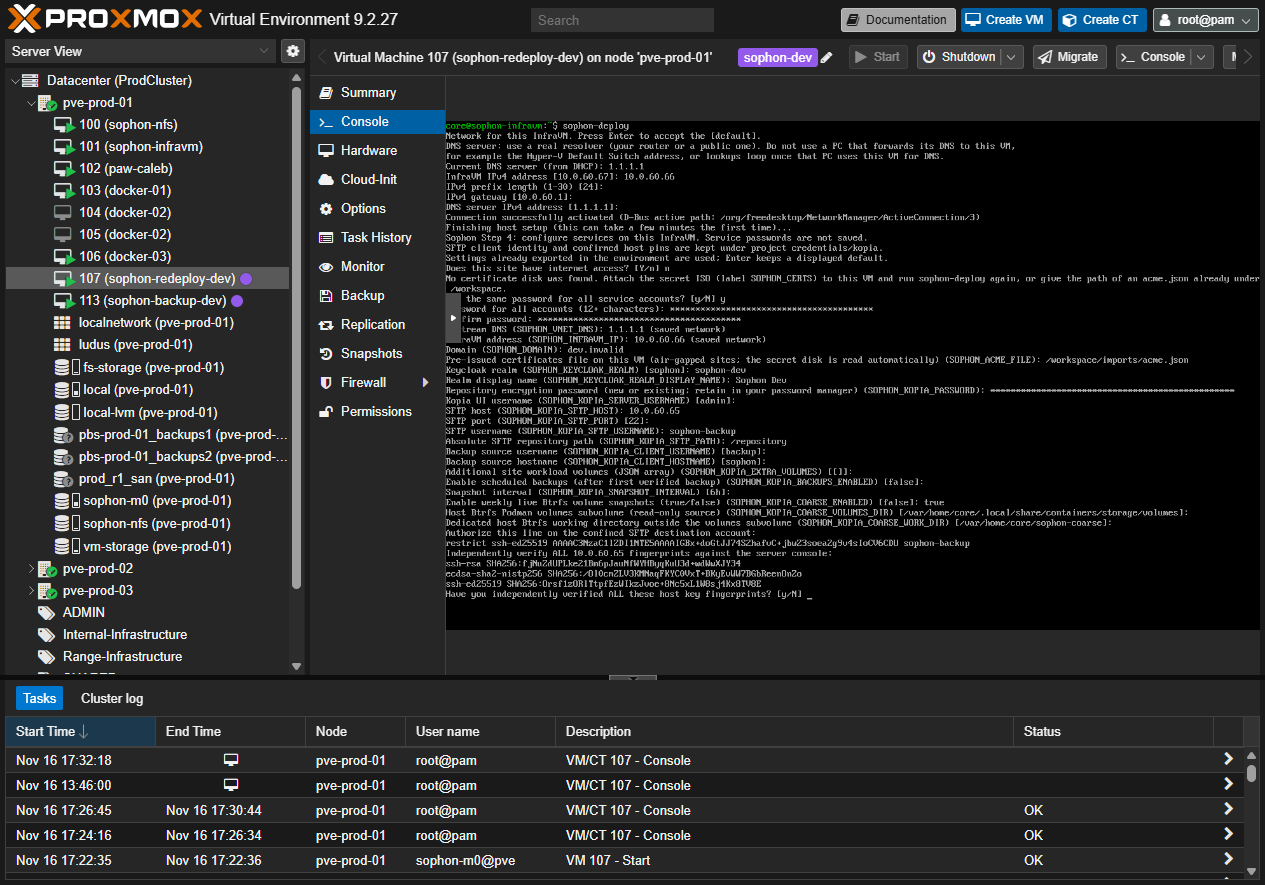
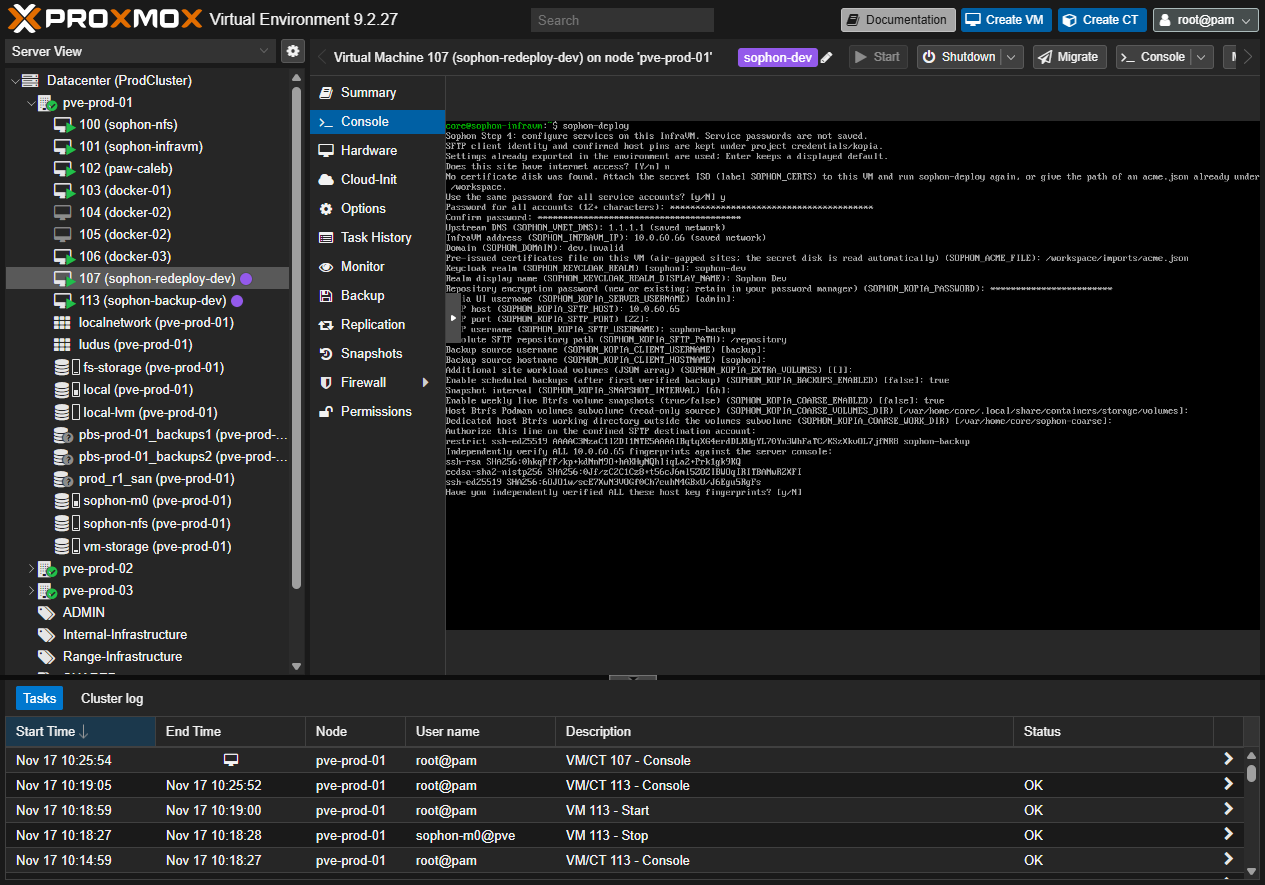
Update operator guide and screenshots for Alpine SFTP backup appliance
Replace manual Debian Cloud-Init backup VM setup in docs/operator-guide.md
with the turnkey sophon-backup-installer.iso workflow (keeping existing-NAS/
Linux instructions in a collapsible subsection) and update console screenshots
so key material and SHA256 host-key fingerprints match end-to-end.

diff --git a/docs/operator-guide.md b/docs/operator-guide.md
@@ -20,81 +20,59 @@ Sophon runs on a single **Fedora CoreOS** virtual machine (**InfraVM**) with a d
 
 ---
 
-## 2. Create & Configure a Confined SFTP Backup Server from Scratch
+## 2. Deploy the Sophon SFTP Backup Appliance (or Use an Existing SFTP Host)
 
-Sophon stores encrypted Kopia snapshots on an external SFTP server (preferably on a separate physical host, NAS, or storage pool from InfraVM so backups survive storage or host loss). You do **not** need to generate SSH client keys or `known_hosts` files by hand—InfraVM generates its own `ed25519` client identity and scans the server's host keys interactively.
+Sophon stores encrypted Kopia snapshots on an external confined SFTP server—ideally on a separate physical host, NAS, or storage pool from InfraVM so backups survive storage or hypervisor loss. You never need to generate SSH client keys or `known_hosts` files by hand: InfraVM generates its own `ed25519` client identity and scans the server's host keys interactively.
 
-If you already have an existing Linux host or NAS, skip straight to **Section 2.2**. If you do **not** yet have a backup server, follow **Section 2.1** to provision a clean Debian 13 Cloud-Init VM in Proxmox VE in under two minutes.
+`bash sophon-provision.sh prepare` (automatically invoked by `sophon-provision.sh`) builds a turnkey, offline, hybrid BIOS + UEFI **Alpine 3.24 SFTP Backup Server ISO** at:
 
-### 2.1 Provision a new Debian 13 SFTP backup VM (Proxmox VE)
+```text
+artifacts/backup/sophon-backup-installer.iso
+```
 
-#### Step A — Import the official Debian 13 Cloud-Init image
+*(If you already have an existing NAS or Linux server you prefer to use, expand **Section 2.3** below instead.)*
 
-1. In the Proxmox web UI, select a storage pool that has **Import** enabled (Datacenter -> Storage -> Edit -> Content: include `Import`, `Disk image`, `ISO image`), then open its **Import** tab.
-2. Click **Download from URL**, paste the official Debian 13 (`trixie`) generic cloud image URL, click **Query URL**, and download it:
-   - URL: `https://cloud.debian.org/images/cloud/trixie/latest/debian-13-genericcloud-amd64.qcow2`
-   - Verify the SHA-512 checksum against `https://cloud.debian.org/images/cloud/trixie/latest/SHA512SUMS` (`Hash algorithm: sha512`).
+### 2.1 Boot a blank VM with `sophon-backup-installer.iso`
 
-![Proxmox storage Import tab with Debian 13 genericcloud qcow2 image](./images/00a-backup-storage-import.png)
+The backup appliance uses the exact same console-first, blank-disk workflow as InfraVM—no Cloud-Init drive, no SSH from your laptop, and identical behavior on Proxmox, vCenter, and Hyper-V:
 
-#### Step B — Create the VM, resize disk & attach Cloud-Init
+1. Upload `artifacts/backup/sophon-backup-installer.iso` (`~133 MiB`) to your hypervisor.
+2. Create a blank 64-bit Linux VM (`1–2` vCPU, `1–2 GiB` RAM, **one** blank disk of `16+ GiB`—for example `32 GiB` for dev or `200+ GiB` for production with `discard=on`, and one NIC on your backup network/VLAN). Adding `Serial Port (serial0)` in Proxmox also enables browser copy/paste via `xterm.js`.
+3. Attach `sophon-backup-installer.iso` as a CD/DVD drive and set **boot order to the blank disk first, then the CD/DVD drive**.
 
-You can create the backup VM either in the Proxmox GUI or with `qm` on the Proxmox node:
+![Proxmox Hardware tab for the Sophon Backup Server VM with a blank disk and sophon-backup-installer.iso](./images/00a-backup-vm-hardware.png)
 
-- **Option 1 — Proxmox GUI:**
-  1. Select the downloaded `.qcow2` row in **Import** and click **Import** (or click **Create VM** -> **OS: Do not use any media**, **System: VirtIO SCSI single**, `2` cores `x86-64-v2-AES`, `2048 MiB` RAM, **Network: VirtIO** on your target bridge/VLAN, and import the disk onto **Hard Disk (`virtio0`)** with `Discard` enabled).
-  2. In the VM's **Hardware** tab, select **Hard Disk (`virtio0`)** -> **Disk Action -> Resize** and grow the disk to your desired backup capacity (for example `+30G` for a `32 GiB` dev target, or `200G+` for production).
-  3. Click **Add -> CloudInit Drive** on your target storage, and add **Add -> Serial Port (`serial0`)** if desired. Check **Options -> Boot Order** so `virtio0` is enabled first.
+4. Click **Start** and open the VM's console. Because the disk is blank, the VM boots `sophon-backup-installer.iso`, partitions the disk (`EFI` + `1.5 GiB` Alpine OS + all remaining space mounted at `/var/lib/sophon-backups`), generates persistent SSH host keys, configures the jailed `sophon-backup` `internal-sftp` chroot (`/var/lib/sophon-backups/repository`), and reboots into the installed appliance in ~20 seconds:
 
-![Proxmox Hardware tab for the dedicated Debian 13 SFTP backup VM](./images/00b-backup-vm-hardware.png)
+![Installed Sophon Backup Server first-boot admin password prompt](./images/00b-backup-first-boot.png)
 
-  4. Open the VM's **Cloud-Init** tab and set:
-     - **User:** `admin`
-     - **DNS servers:** `1.1.1.1` (or your upstream resolver)
-     - **SSH public key:** paste your operator workstation's SSH public key (for administrative access to set up the confined SFTP account)
-     - **IP Config (`net0`):** Static IPv4 address and gateway on the backup network (for example `10.0.60.65/24`, gateway `10.0.60.1`)
-  5. Click **Regenerate Image**, then click **Start** at the top right.
+*(Once installed, you can detach `sophon-backup-installer.iso`; even if left attached, the installer refuses to touch any non-blank disk.)*
 
-![Proxmox Cloud-Init tab configuring admin SSH key and static IPv4 address](./images/00c-backup-vm-cloudinit.png)
+### 2.2 First-boot password & `sophon-backup-setup`
 
-- **Option 2 — Proxmox `qm` CLI equivalent (run on the Proxmox node):**
+1. At `== Sophon Backup Server first boot ==`, choose and confirm a console password for `admin`, then log in as `admin`.
+2. Upon login, the banner displays the current DHCP IPv4 address and all three `SHA256` SSH host-key fingerprints.
+3. Run `sophon-backup-setup` (do **not** use `sudo` or `doas`). Press `Enter` to accept the detected network defaults or enter your desired static IPv4 address, prefix, gateway, and DNS resolver:
 
-  ```bash
-  VMID=113
-  STORAGE=your-backup-storage
-  BRIDGE=vmbr1
-  VLAN=60
-  BACKUP_IP=10.0.60.65/24
-  GATEWAY=10.0.60.1
+![Running sophon-backup-setup on the Alpine Sophon Backup Server console](./images/00c-backup-setup.png)
 
-  qm create "$VMID" --name sophon-sftp --cores 2 --memory 2048 --balloon 0 \
-      --cpu x86-64-v2-AES --ostype l26 --scsihw virtio-scsi-single \
-      --net0 "virtio,bridge=${BRIDGE},tag=${VLAN}" \
-      --virtio0 "${STORAGE}:0,import-from=${STORAGE}:import/debian-13-genericcloud-amd64.qcow2,format=qcow2,discard=on" \
-      --ide2 "${STORAGE}:cloudinit" --ciuser admin --sshkeys ~/.ssh/authorized_keys \
-      --ipconfig0 "ip=${BACKUP_IP},gw=${GATEWAY}" --nameserver 1.1.1.1 \
-      --boot order=virtio0 --serial0 socket --vga std
-  qm disk resize "$VMID" virtio0 100G
-  qm start "$VMID"
-  ```
+`sophon-backup-setup` applies the static IP immediately and prints the exact values you will enter into `sophon-deploy` on InfraVM (`SFTP host`, `SFTP port: 22`, `SFTP username: sophon-backup`, `SFTP path: /repository`, free MiB, and all `SHA256` host-key fingerprints). Leave that prompt open at `Paste the public key line from sophon-deploy` (or press `Enter` and run `sophon-authorize-key` once InfraVM reaches Step 4.3).
 
-### 2.2 Configure the confined OpenSSH `internal-sftp` chroot
+### 2.3 Optional: Using an existing Linux server or NAS instead
 
-SSH into the backup server (`ssh admin@<backup-server-ip>`) and create a locked `sophon-backup` system account jailed inside `/var/lib/sophon-backups` with `ForceCommand internal-sftp`:
+<details>
+<summary>Click to expand manual OpenSSH internal-sftp chroot commands for Debian/Ubuntu/RHEL</summary>
+
+If you are pointing Sophon at an existing Linux server instead of deploying `sophon-backup-installer.iso`, run:
 
 ```bash
-# 1. Create a locked system user with no interactive shell
 sudo useradd --system --user-group --no-create-home \
     --home-dir /repository --shell /usr/sbin/nologin sophon-backup
 sudo usermod -p '*' sophon-backup
-
-# 2. Create the root-owned chroot directory and writable repository subdirectory
-#    (OpenSSH requires ChrootDirectory itself to be owned by root:root, mode 0755)
 sudo install -d -o root -g root -m 0755 /var/lib/sophon-backups /etc/ssh/authorized_keys
 sudo install -d -o sophon-backup -g sophon-backup -m 0700 /var/lib/sophon-backups/repository
-sudo install -o root -g root -m 0600 /dev/null /etc/ssh/authorized_keys/sophon-backup
+sudo install -o root -g root -m 0644 /dev/null /etc/ssh/authorized_keys/sophon-backup
 
-# 3. Confine sophon-backup to internal-sftp inside /var/lib/sophon-backups
 sudo tee /etc/ssh/sshd_config.d/50-sophon-backup.conf >/dev/null <<'EOF'
 Match User sophon-backup
     AuthorizedKeysFile /etc/ssh/authorized_keys/sophon-backup
@@ -110,14 +88,11 @@ Match all
 EOF
 sudo chmod 0644 /etc/ssh/sshd_config.d/50-sophon-backup.conf
 sudo sshd -t && sudo systemctl reload ssh
-
-# 4. Print the server's SSH host-key SHA256 fingerprints for out-of-band verification
 for pub in /etc/ssh/ssh_host_*_key.pub; do sudo ssh-keygen -lf "$pub"; done
 ```
 
-![Backup VM console showing confined SFTP chroot permissions and SSH host-key SHA256 fingerprints](./images/00d-backup-sftp-setup.png)
-
-Keep those `SHA256:...` fingerprints visible so you can compare them when `sophon-deploy` scans the backup server. Because `ChrootDirectory` is `/var/lib/sophon-backups`, the SFTP path you enter in `sophon-deploy` is `/repository`.
+When `sophon-deploy` displays its generated `restrict ssh-ed25519 ...` line in Section 4.3, write it to `/etc/ssh/authorized_keys/sophon-backup` (`root:root`, mode `0644`).
+</details>
 
 ---
 
@@ -175,25 +150,17 @@ Before deploying any container stack, `sophon-deploy` generates `/var/lib/sophon
 
 ![Interactive SFTP public-key display and SHA256 host-key verification](./images/05-sophon-sftp-pairing.png)
 
-1. Compare **all** displayed `SHA256:...` fingerprints against Step 2's output from the backup server console, then type `y`.
-2. On the backup server, install the displayed `restrict ssh-ed25519 ...` line into `/etc/ssh/authorized_keys/sophon-backup`:
+1. Compare **all** displayed `SHA256:...` fingerprints against Section 2.2's output on the Sophon Backup Server console.
+2. Switch to the Sophon Backup Server console and paste the displayed `restrict ssh-ed25519 ...` line into the waiting `sophon-backup-setup` prompt (or run `sophon-authorize-key` and paste it there). *(Tip: in Proxmox, opening `>_ Console -> xterm.js` via `serial0` allows direct clipboard copy/paste.)*
 
-   ```bash
-   printf '%s\n' 'restrict ssh-ed25519 AAAAC3NzaC1lZDI1NTE5AAAA... sophon-backup' \
-       | sudo tee /etc/ssh/authorized_keys/sophon-backup >/dev/null
-   sudo chmod 0644 /etc/ssh/authorized_keys/sophon-backup
-   ```
+![Authorizing the generated client public key on the Sophon Backup Server console](./images/05b-backup-authorize-key.png)
 
-3. Return to the InfraVM console and type `y` at `Install the displayed public key on the server, then continue? [y/N]`.
+3. Return to the InfraVM console, type `y` to confirm the verified `SHA256` host-key fingerprints, and type `y` at `Install the displayed public key on the server, then continue? [y/N]`.
 4. Sophon immediately verifies SFTP authentication, read/write/delete integrity, and free space (`statvfs@openssh.com`), checks whether a Kopia repository already exists at `/repository`, and—only when the path is empty—asks before creating a new encrypted repository:
 
 ![SFTP preflight free-space report and encrypted Kopia repository creation prompt](./images/06-sophon-repo-create.png)
 
-Confirm with `y`. Ansible (`4-configure.yml`) then reconciles all core Compose projects (`coredns`, `traefik`, `openldap`, `keycloak`, `gitea`, `arcane`, and `kopia`) and waits for health checks to pass. On the backup server, `/var/lib/sophon-backups/repository` now contains the encrypted Kopia repository shards owned by `sophon-backup:sophon-backup`:
-
-![Encrypted Kopia repository initialized inside the confined SFTP chroot on the backup server](./images/05b-backup-authorize-key.png)
-
-Once `sophon-deploy` finishes, detach the installer and deployment ISOs from InfraVM.
+Confirm with `y`. Ansible (`4-configure.yml`) then reconciles all core Compose projects (`coredns`, `traefik`, `openldap`, `keycloak`, `gitea`, `arcane`, and `kopia`) and waits for health checks to pass. Once `sophon-deploy` finishes, detach the installer and deployment ISOs from InfraVM.
 
 ---
 
@@ -259,7 +226,7 @@ If InfraVM or its virtual disk is completely lost, rebuild from code first and t
 
 1. Provision a new blank VM with `sophon-installer.iso` and `sophon-deployment.iso` (Section 3) and complete first-boot password and network setup (Sections 4.1–4.2).
 2. Run `sophon-deploy` using the same domain, realm, and SFTP repository settings (`SOPHON_KOPIA_PASSWORD`, `SOPHON_KOPIA_SFTP_HOST`, `SOPHON_KOPIA_SFTP_USERNAME`, `SOPHON_KOPIA_SFTP_PATH`), **keeping `SOPHON_KOPIA_BACKUPS_ENABLED=false` and `SOPHON_KOPIA_COARSE_ENABLED=false` during recovery** so scheduled jobs do not write a blank-state snapshot before restoration finishes.
-3. Because this is a new VM, `sophon-deploy` generates a **new** `ed25519` SSH key. Replace `/etc/ssh/authorized_keys/sophon-backup` on your backup server with the newly displayed `restrict ssh-ed25519 ...` line and confirm the server's `SHA256:...` host-key fingerprints.
+3. Because this is a new VM, `sophon-deploy` generates a **new** `ed25519` SSH key. On your Sophon Backup Server console, run `sophon-authorize-key`, paste the newly displayed `restrict ssh-ed25519 ...` line, and confirm the server's `SHA256:...` host-key fingerprints on InfraVM.
 4. `sophon-deploy` detects the **existing** Kopia repository at `/repository` automatically (it will **not** prompt to create one) and deploys fresh, healthy stacks.
 
 ### 7.2 Restore stateful workload groups

diff --git a/README.md b/README.md
@@ -114,7 +114,11 @@ Writers resume before upload. Snapshots contain files, dumps and a versioned
 manifest, not images, caches, container environments or a system copy.
 
 Supply the external SFTP host/user/path, repository password and Kopia UI
-credentials at the console. Configure generates a client key, shows the public
+credentials at the console. If you do not already have an SFTP server or NAS,
+Prepare also builds `artifacts/backup/sophon-backup-installer.iso`, an
+unattended Alpine Linux SFTP backup appliance (`sophon-backup-setup` and
+`sophon-authorize-key`); see [Section 2 of the operator guide](docs/operator-guide.md#2-deploy-the-sophon-sftp-backup-appliance-or-use-an-existing-sftp-host).
+Configure generates a client key, shows the public
 line to authorize, confirms host fingerprints and runs preflight before stacks;
 see [backup inputs](docs/inputs.md#kopia-backup-inputs). Only a confirmed missing
 repository on an unused path may be created; all other errors fail closed.

diff --git a/CONTEXT.md b/CONTEXT.md
@@ -20,6 +20,8 @@ preflights the declared SFTP destination; it has no hypervisor/guest SSH or host
 
 **Deployment ISO**: `sophon-deployment.iso`; project, runner image, container archives and installer. Reusable, secret-free.
 
+**Backup Installer ISO**: `sophon-backup-installer.iso`; optional standalone hybrid BIOS/UEFI Alpine 3.24 installer ISO built by Prepare that installs a turnkey, confined OpenSSH `internal-sftp` backup server onto a single blank disk (`sophon-backup-setup` / `sophon-authorize-key`). Reusable, secret-free.
+
 **Artifact**: a file Prepare produces and a later step consumes (image archive, ISO, runner image).
 
 **Service FQDN**: `<service>.<domain>`; how everything addresses a service. Raw IPs are used only for the hypervisor and Portainer's first contact.
